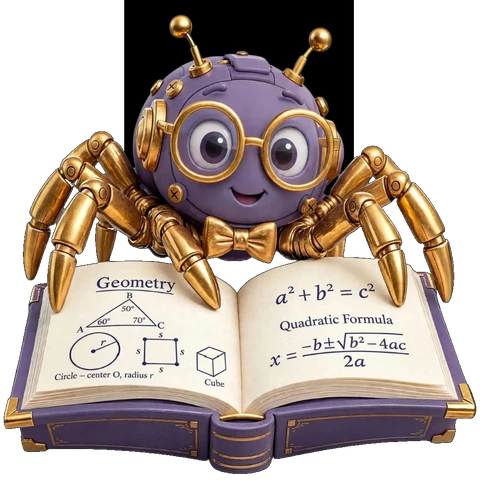
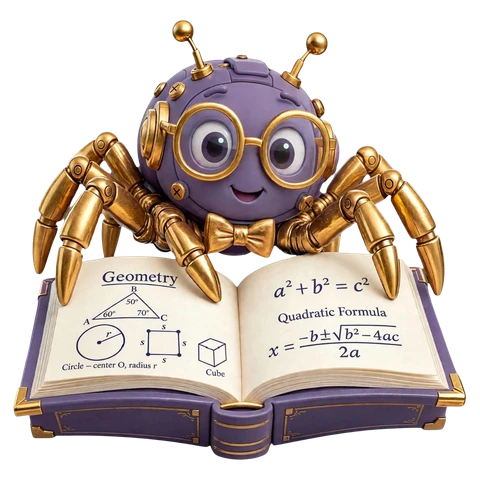
fix(branding): use authentic transparent PNGs for hero mascots and clean obsolete files

diff --git a/src/app/features/guest-portal/landing-home/landing-home.component.html b/src/app/features/guest-portal/landing-home/landing-home.component.html
@@ -122,9 +122,9 @@
             <!-- 3D Mascot Image with Book (Transparent WebP with Gentle Float) -->
             <div class="relative z-10 w-full flex items-center justify-center pt-6">
               <img
-                [attr.srcset]="langService.isArabic() ? '/assets/branding/spider-mascot-hero-book-ar-sm-v3.webp?v=7 480w, /assets/branding/spider-mascot-hero-book-ar-v3.webp?v=7 640w' : '/assets/branding/spider-mascot-hero-book-sm-v3.webp?v=7 480w, /assets/branding/spider-mascot-hero-book-v3.webp?v=7 640w'"
+                [attr.srcset]="langService.isArabic() ? '/assets/branding/spider-mascot-hero-book-ar-sm-v3.webp?v=12 480w, /assets/branding/spider-mascot-hero-book-ar-v3.webp?v=12 640w' : '/assets/branding/spider-mascot-hero-book-sm-v3.webp?v=12 480w, /assets/branding/spider-mascot-hero-book-v3.webp?v=12 640w'"
                 sizes="(max-width: 640px) 360px, (max-width: 1023px) 440px, 500px"
-                [src]="langService.isArabic() ? '/assets/branding/spider-mascot-hero-book-ar-v3.webp?v=7' : '/assets/branding/spider-mascot-hero-book-v3.webp?v=7'"
+                [src]="langService.isArabic() ? '/assets/branding/spider-mascot-hero-book-ar-v3.webp?v=12' : '/assets/branding/spider-mascot-hero-book-v3.webp?v=12'"
                 [alt]="langService.isArabic() ? 'رفيق سبايدر ماث الذكي للمذاكرة' : 'Spider Math AI Study Partner'"
                 width="640"
                 height="640"

diff --git a/src/index.html b/src/index.html
@@ -28,8 +28,8 @@
   <link
     rel="preload"
     as="image"
-    href="/assets/branding/spider-mascot-hero-book-ar-v3.webp?v=5"
-    imagesrcset="/assets/branding/spider-mascot-hero-book-ar-sm-v3.webp?v=5 480w, /assets/branding/spider-mascot-hero-book-ar-v3.webp?v=5 640w"
+    href="/assets/branding/spider-mascot-hero-book-ar-v3.webp?v=12"
+    imagesrcset="/assets/branding/spider-mascot-hero-book-ar-sm-v3.webp?v=12 480w, /assets/branding/spider-mascot-hero-book-ar-v3.webp?v=12 640w"
     imagesizes="(max-width: 640px) 360px, (max-width: 1023px) 440px, 500px"
     fetchpriority="high"
   >

diff --git a/scripts/process-mascots.py b/scripts/process-mascots.py
@@ -253,9 +253,14 @@ def main():
     print("\n=======================================================")
     print("2. Processing Arabic Hero Mascot (Looking right)...")
     print("=======================================================")
-    hero_ar_raw = local_raw_hero_ar if local_raw_hero_ar.exists() else src_hero_ar
-    hero_ar_rgba = remove_black_background(hero_ar_raw)
-    hero_ar_square = make_square_centered(hero_ar_rgba, margin_ratio=0.04)
+    hero_ar_orig = raw_dir / "spider-mascot-hero-ar-original.png"
+    if hero_ar_orig.exists():
+        from PIL import Image
+        hero_ar_rgba = Image.open(hero_ar_orig).convert('RGBA')
+    else:
+        hero_ar_raw = local_raw_hero_ar if local_raw_hero_ar.exists() else src_hero_ar
+        hero_ar_rgba = remove_black_background(hero_ar_raw)
+    hero_ar_square = make_square_centered(hero_ar_rgba, margin_ratio=0.03)
     save_variants(hero_ar_square, [
         {'path': branding_dir / 'spider-mascot-hero-book-ar-v3.webp', 'size': (640, 640), 'format': 'WEBP', 'quality': 85},
         {'path': branding_dir / 'spider-mascot-hero-book-ar-sm-v3.webp', 'size': (480, 480), 'format': 'WEBP', 'quality': 82},
@@ -264,13 +269,18 @@ def main():
         {'path': branding_dir / 'spider-mascot-hero-book-ar.png', 'size': (640, 640), 'format': 'PNG'},
     ])
 
-    if local_raw_hero_en.exists() or src_hero_en.exists():
+    hero_en_orig = raw_dir / "spider-mascot-hero-en-original.png"
+    if hero_en_orig.exists() or local_raw_hero_en.exists() or src_hero_en.exists():
         print("\n=======================================================")
         print("3. Processing English Hero Mascot (Looking left)...")
         print("=======================================================")
-        hero_en_raw = local_raw_hero_en if local_raw_hero_en.exists() else src_hero_en
-        hero_en_rgba = remove_black_background(hero_en_raw)
-        hero_en_square = make_square_centered(hero_en_rgba, margin_ratio=0.04)
+        if hero_en_orig.exists():
+            from PIL import Image
+            hero_en_rgba = Image.open(hero_en_orig).convert('RGBA')
+        else:
+            hero_en_raw = local_raw_hero_en if local_raw_hero_en.exists() else src_hero_en
+            hero_en_rgba = remove_black_background(hero_en_raw)
+        hero_en_square = make_square_centered(hero_en_rgba, margin_ratio=0.03)
         save_variants(hero_en_square, [
             {'path': branding_dir / 'spider-mascot-hero-book-v3.webp', 'size': (640, 640), 'format': 'WEBP', 'quality': 85},
             {'path': branding_dir / 'spider-mascot-hero-book-sm-v3.webp', 'size': (480, 480), 'format': 'WEBP', 'quality': 82},
